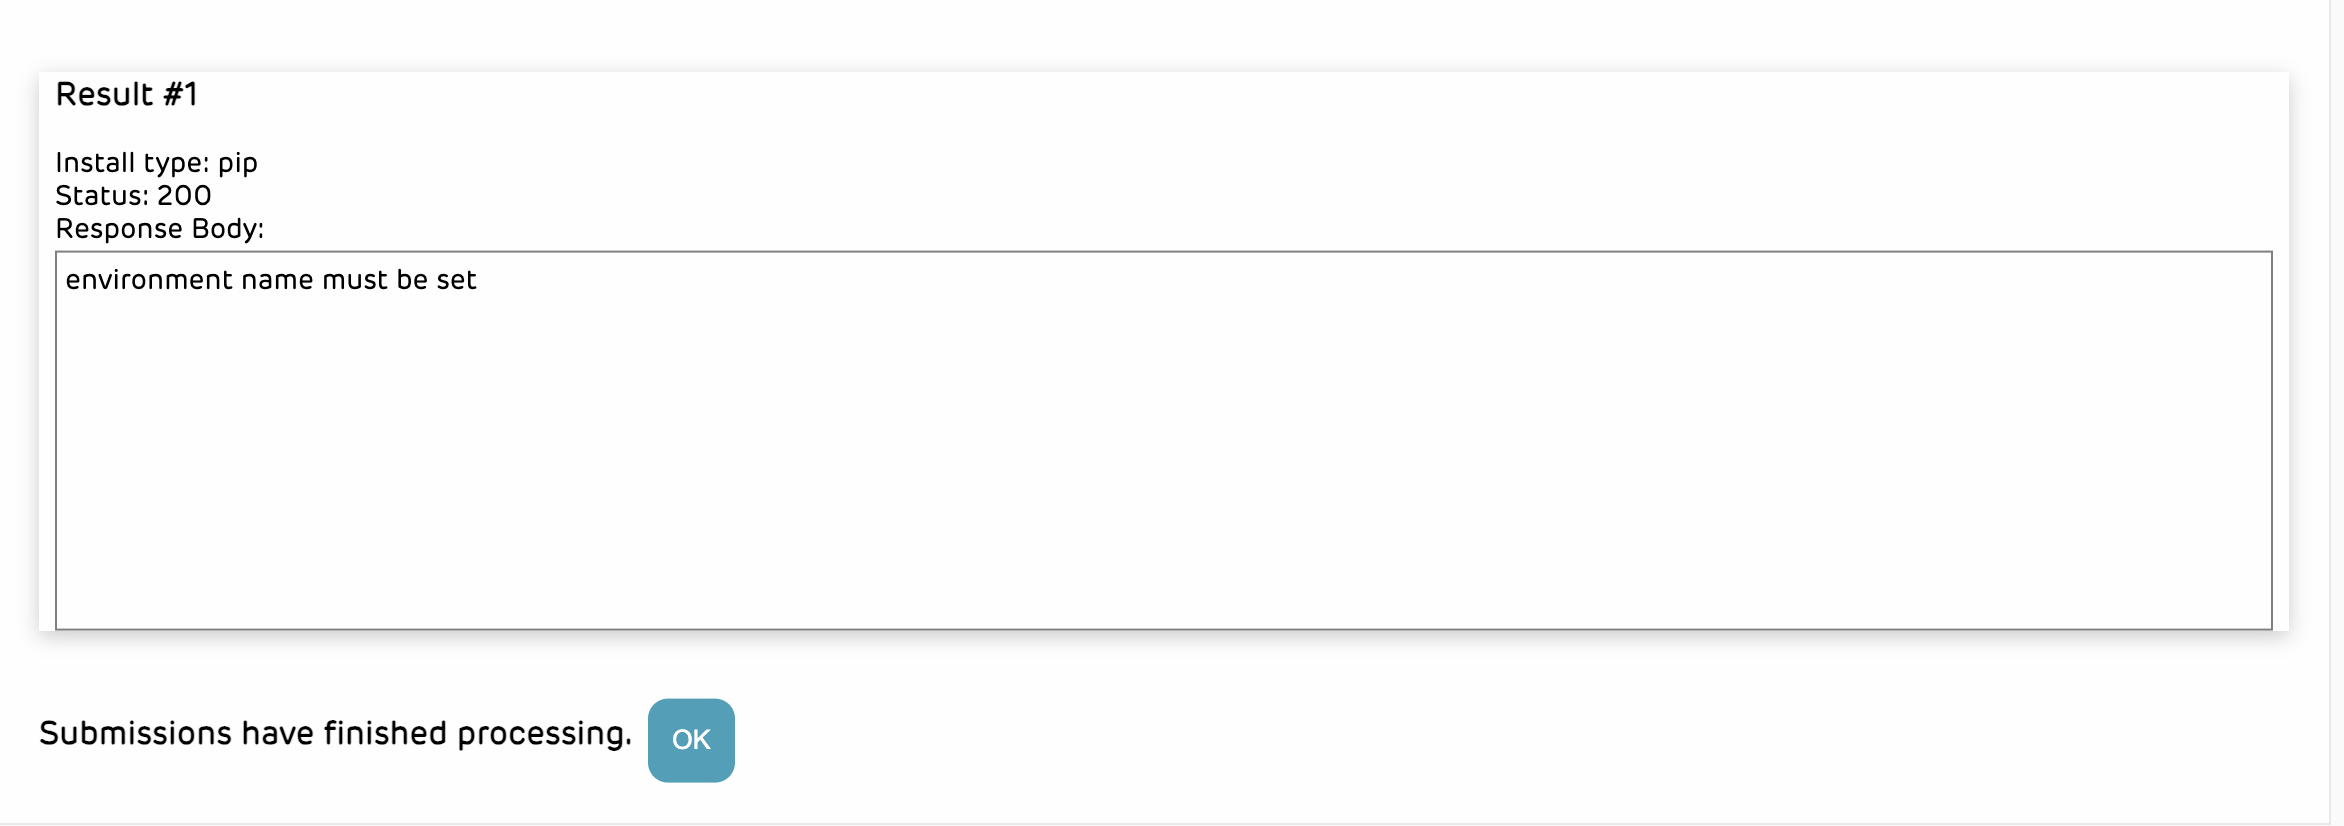
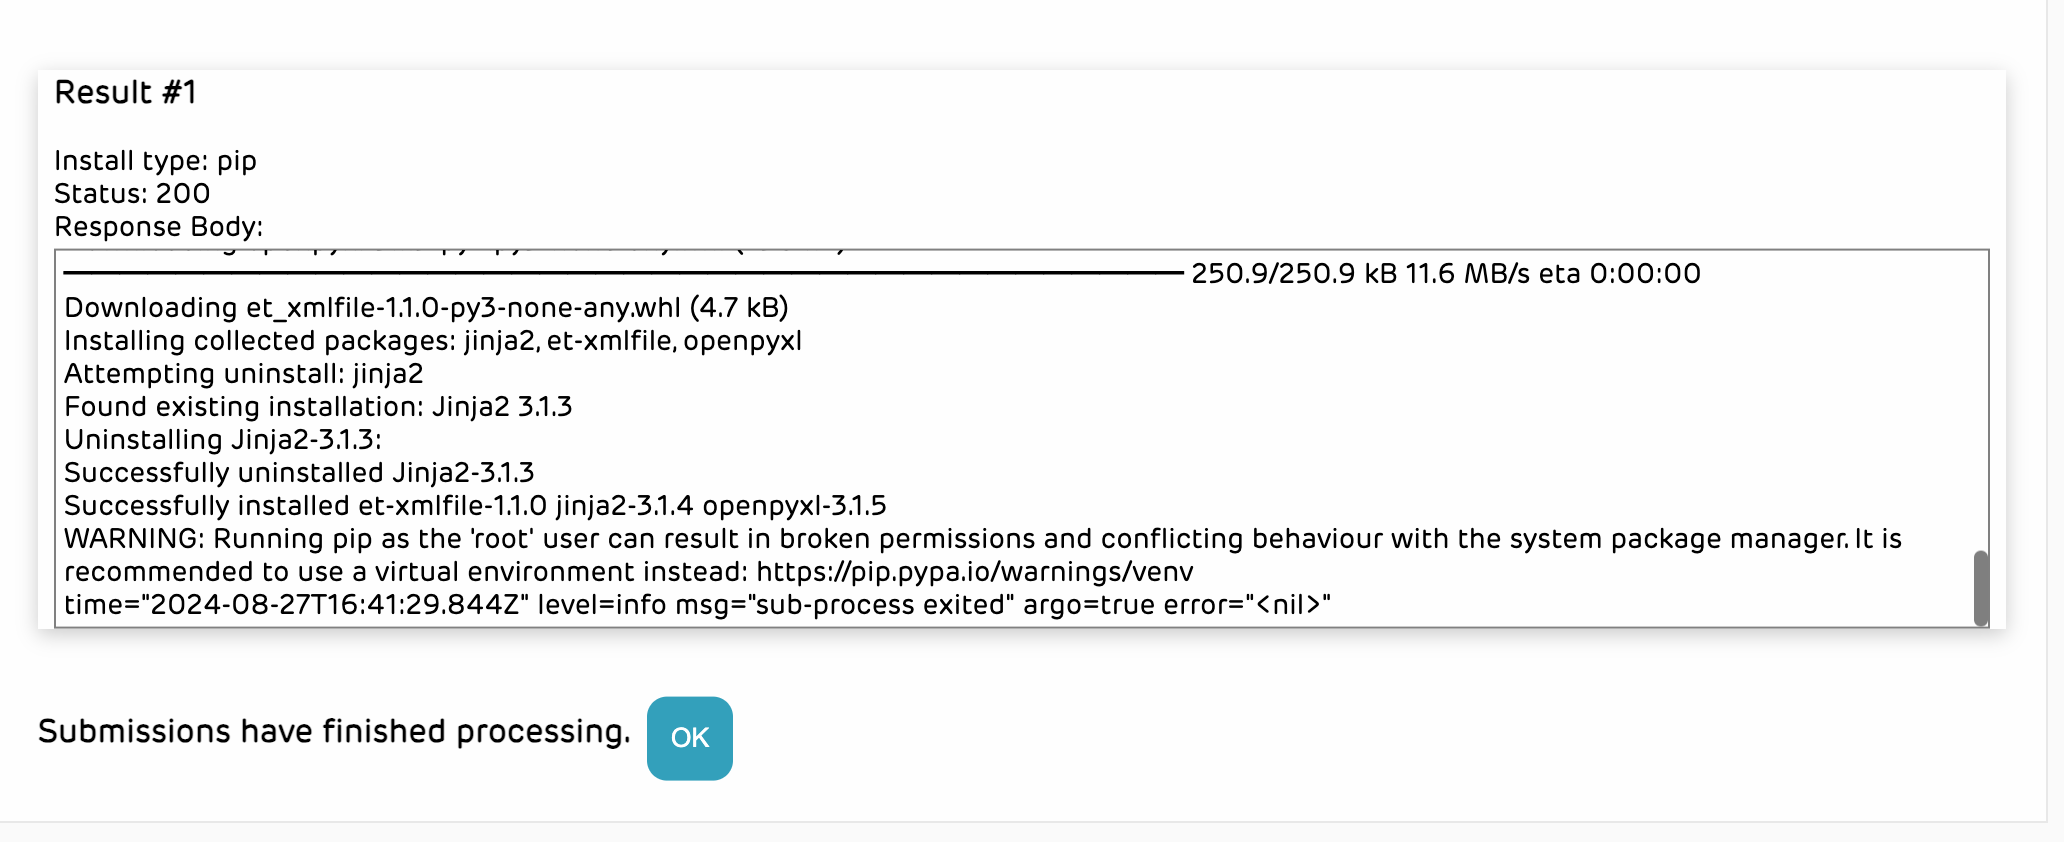
Update screenshots with finalized install tool

Changed region(s): [[0.0, 0.1816, 0.9922, 0.7869], [0.0, 0.8172, 0.3721, 0.9685], [0.0, 0.0908, 0.093, 0.1513]]

diff --git a/arcus_orientation.md b/arcus_orientation.md
@@ -705,24 +705,23 @@ The [training videos](#training-videos) walk through everything you need to get 
 ### Using Python with Internet Disabled
 
 Most functions in Python run locally -- once you install the package they're in, they're saved on your machine (or in this case, in your Arcus Lab) for you to use whenever you like, without requiring you to have an internet connection. 
-If you already have Python code written for your analysis, chances are all of that code will continue to work in exactly the same way whether or not you have internet disabled. 
+If you already have Python code written for your analysis, chances are all of that code will continue to work in exactly the same way whether or not you keep your lab in Internet Disabled Mode. 
 
-We've also set up your Arcus Lab to allow some common remote connections in a secure way, so you can have internet disabled in your lab but still maintain access to certain secure services. 
-Here are some things you can **always** access from Python/Jupyter, even with internet disabled: 
+We've also set up your Arcus Lab to allow some common remote connections in a secure way, so you can use Internet Disabled Mode in your lab but still maintain access to certain secure services. 
+Here are some things you can **always** access from Python/Jupyter, even in Internet Disabled Mode: 
 
 - Your Arcus data (for example, downloading your data in Python using `bigquery`)
 - Repositories on CHOP's Enterprise GitHub (for example, using `clone`, `push`, and `pull`)
-- Opening external links by clicking on them, such as from within a Jupyter notebook
 
 However, there are a few important Python actions that require an internet connection to work (especially [installing new packages](#installing-and-updating-packages-in-python)), potentially posing a security risk for your data. 
 To provide peace of mind for researchers working in Arcus, we provide a secure method for you to install Python packages and download other necessary files without having to enable internet. 
 
-And if you find you have something you need to do in Python that requires an internet connection, you can always [change your lab's security settings](#lab-status-pane) to run that code and then return to internet disabled mode afterward. 
+And if you find you have something you need to do in Python that requires an internet connection, you can always [change your lab's security settings](#lab-status-pane) to run that code and then return to Internet Disabled Mode afterward. 
 
 #### Installing and Updating Packages in Python
 
 There are two main sources for installing new packages (or update existing ones) in Python in Arcus: Anaconda (conda) or PyPi (pip).
-For either, you can use the Install form, which is more secure than installing packages by commands like `conda install` or `pip install`, and also works even when you have internet disabled in your lab.
+For either, you can use the Install Tool, which is more secure than installing packages by commands like `conda install` or `pip install`, and also works even when you have internet disabled in your lab.
 
 <div class = "learn-more">
 <b style="color: rgb(var(--color-highlight));">Learning connection</b><br>
@@ -731,11 +730,11 @@ To learn more about the differences between Conda and Pip, read our Arcus Forum 
 
 </div>
 
-You can reach the Install form from your lab dashboard, under Tools.
+You can reach the Install Tool from your lab dashboard, under Tools.
 
 ![An Arcus Lab dashboard, showing the Tools section with "Install packages, downloads, and more" at the end of the list.](media/install_dashboard.png)
 
-If you have Jupyter open, you can also go directly to the Install packages Tool by clicking "Install a Package" in the banner at the top of your lab.
+If you have Jupyter open, you can also go directly to the Install Tool by clicking "Install a Package" in the banner at the top of your lab.
 
 ![The banner across the top of an Arcus Lab running Jupyter. The first link in the top right corner is "Install a Package."](media/install_banner_jupyter.png)
 
@@ -746,23 +745,24 @@ The procedure is a little different depending on if you want to install a packag
 
 Note that if you forget and attempt to run commands like `conda install` or `pip install` in Python when you have internet disabled, the kernel may hang (the code will keep trying unsuccessfully to run until it times out).
 
-You can fix this by refreshing the page. 
-Then you can open the Install form to install the package(s) you need that way.
+You can fix this by refreshing the page (using Ctrl-C if you're working in a Terminal window). 
+Then you can open the Install Tool to install the package(s) you need that way.
 
 </div>
 
 ##### Install with Conda
 
 When you install a package hosted on Anaconda, you need to specify whether you want to install it into a Conda environment you already have, or a new Conda environment. 
-If you want to install it into the Conda environment you're already using for a given analysis, you'll need to **make a note of your Conda environment** before going to the Install form.
+If you want to install it into the Conda environment you're already using for a given analysis, you may want to **make a note of your Conda environment** before going to the Install Tool.
 
-You can see the Conda environment (prefixed with `.conda-`) for a given Jupyter notebook in the upper right corner of the screen when you have that notebook open. The default [Arcus-provided Conda environment](https://forum.arcus.chop.edu/t/arcus-provided-conda-environments/573) is called `arcus`. 
+You can see the Conda environment (prefixed with `.conda-`) for a given Jupyter notebook in the upper right corner of the screen when you have that notebook open. 
+The standard [Arcus-provided Conda environment](https://forum.arcus.chop.edu/t/arcus-provided-conda-environments/573) is called `arcus`. 
 
 ![The banner across the top of an Arcus Lab running Jupyter. In the upper right corner of the notebook, text reads ".conda-arcus", so `arcus` is the name of this Conda environment.](media/install_check_conda_env.png)
 
 You can also see a complete list of all the Conda environments you have by running `! arcus list-conda-env` in a Jupyter cell. 
 
-When you open the Install Packages tool, you'll see a dropdown menu for "Select install option". 
+When you open the Install Tool, you'll see a dropdown menu for "Select install option". 
 Select "Conda".
 
 ![The Arcus Install tool, with "Conda" selected from the install option drop down menu.](media/install_conda_packages.png)
@@ -782,13 +782,13 @@ If you want to overwrite an existing Conda environment, you'll need to manually 
 
 Write in the name of the package you want to install. 
 If you leave package version blank, it will get the most recent version.
-The form will also automatically install any required dependencies for the package(s) you list.
+The tool will also automatically install any required dependencies for the package(s) you list.
 
 ![The Arcus Install tool, with "tableone" entered under package name. Install option is set to "Conda" and package version is left blank.](media/install_conda_package_name_1.png)
 
 If you have multiple packages you need to install, you can add them at the same time by clicking "Add package".
 
-![The Arcus Install tool, with "tableone" and "seaborn" entered in the two visible package name fields. The button "Add Package" at the bottom of the package fields adds fields to list additional packages. The buttons at the bottom right of the tool are "Add Item" and "Submit."](media/install_conda_package_name_2.png)
+![The Arcus Install tool, with "tableone" and "seaborn" entered in the two visible package name fields. The button "Add Package" at the bottom of the package fields adds fields to list additional packages. The buttons at the bottom right of the tool are "Add another install" and "Submit."](media/install_conda_package_name_2.png)
 
 Click "Submit" to begin installation.
 
@@ -804,23 +804,36 @@ When installation is complete, click "OK" to close the installation window.
 
 You can now return to Jupyter and your packages will be available, in the Conda environment you specified. 
 You can load them with `import` statements as you normally would.
+If you need to change the Conda environment for a Jupyter notebook (for example, if you used the Install Tool to create a new environment and now you wish to use it), you can do so by clicking the environment name in the upper right corner of your notebook, and then selecting the Conda environment you wish to use. 
 
 ##### Install with Pip
 
-When you open the Install Packages tool, you'll see a dropdown menu for "Select install option". 
+When you open the Install Tool, you'll see a dropdown menu for "Select install option". 
 Select "Pip".
 
-![The Arcus Install tool, with "Pip" selected from the install option drop down menu.](media/install_pip_packages.png)
+![The Arcus Install Tool, with "Pip" selected from the install option drop down menu.](media/install_pip_packages.png)
+
+You'll need to select an existing Conda environment to install into. 
+The standard [Arcus-provided Conda environment](https://forum.arcus.chop.edu/t/arcus-provided-conda-environments/573) is called `arcus`.  
+
+<div class = "learn-more">
+<b style="color: rgb(var(--color-highlight));">Learning connection</b><br>
+
+To learn more about Conda environments, read our Arcus Forum post on [package management for reproducible analysis](https://forum.arcus.chop.edu/t/package-management-for-reproducible-analysis/384).
+
+</div>
+
+![The Arcus Install Tool, with "Pip" selected as install option and "arcus" selected as the Conda environment name (it is the only option available in this example).](media/install_pip_env.png)
 
 Write in the name of the package you want to install. 
 If you leave package version blank, it will get the most recent version.
-The form will also automatically install any required dependencies for the package(s) you list.
+The tool will also automatically install any required dependencies for the package(s) you list.
 
 ![The Arcus Install tool, with "tableone" entered under package name. Install option is set to "Pip" and package version is left blank.](media/install_pip_package_name_1.png)
 
 If you have multiple packages you need to install, you can add them at the same time by clicking "Add package".
 
-![The Arcus Install tool, with "tableone" and "seaborn" entered in the two visible package name fields. The button "Add Package" at the bottom of the package fields adds fields to list additional packages. The buttons at the bottom right of the tool are "Add Item" and "Submit."](media/install_pip_package_name_2.png)
+![The Arcus Install tool, with "tableone" and "seaborn" entered in the two visible package name fields. The button "Add Package" at the bottom of the package fields adds fields to list additional packages. The buttons at the bottom right of the tool are "Add another install" and "Submit."](media/install_pip_package_name_2.png)
 
 Click "Submit" to begin installation. 
 
@@ -836,7 +849,7 @@ You can load them with `import` statements as you normally would.
 #### When you Might Need to Enable Internet in Python
 
 Most workflows in Python won't require you to enable internet connectivity at any point. 
-If you find you need to install or update a package while you're working, you can use the Install form on your lab's dashboard to do that while staying in internet disabled mode. 
+If you find you need to install or update a package while you're working, you can use the Install Tool on your lab's dashboard to do that while staying in internet disabled mode. 
 Keeping your lab's internet connection disabled while you work is the best way to protect your data and ensure you're not accidentally disclosing protected information to outsiders. 
 
 <div class = "warning">
